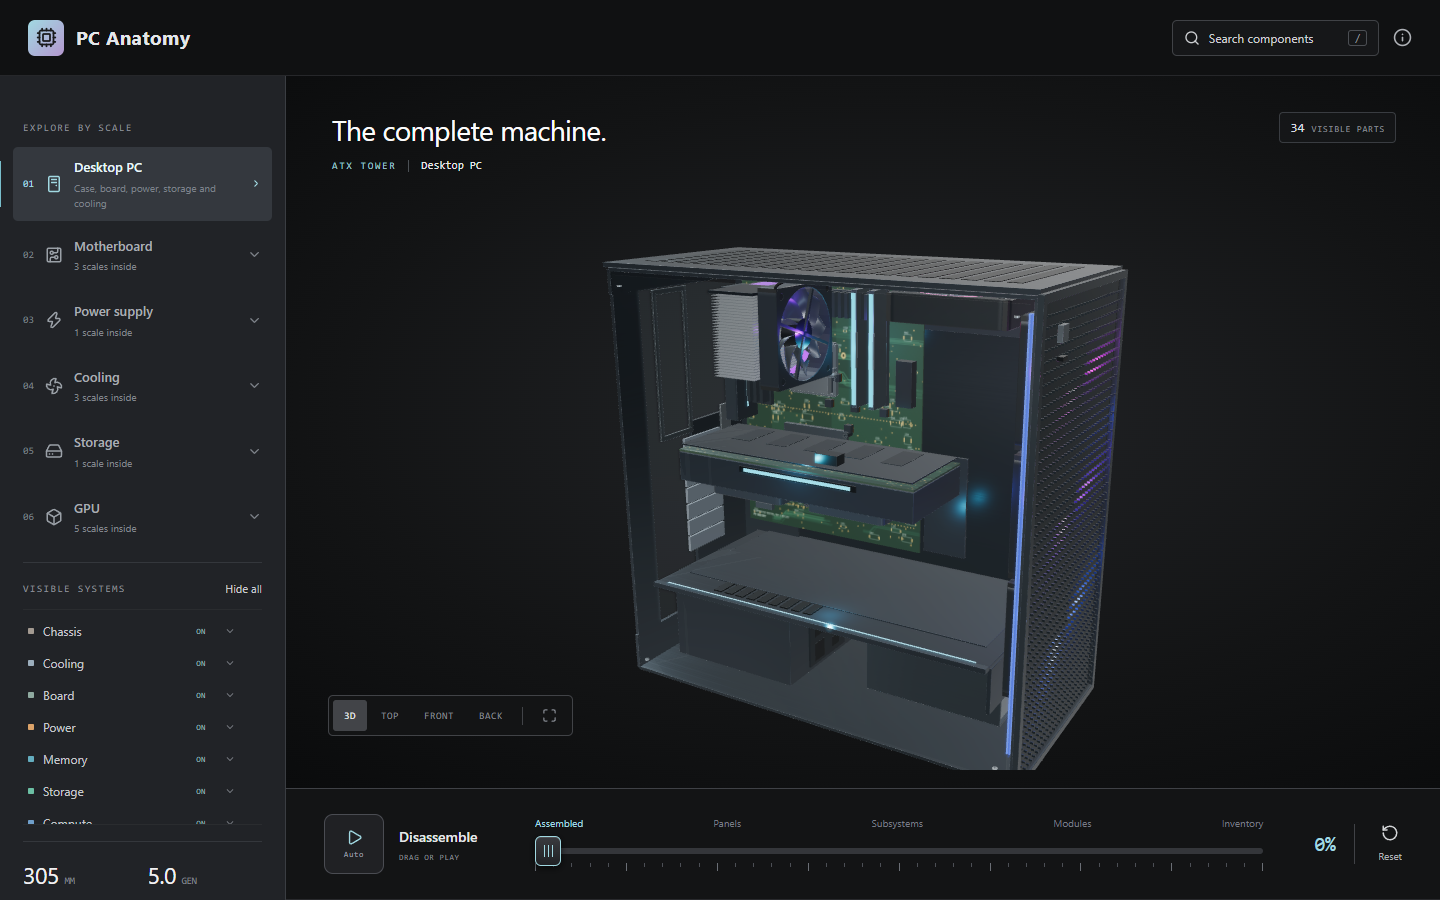
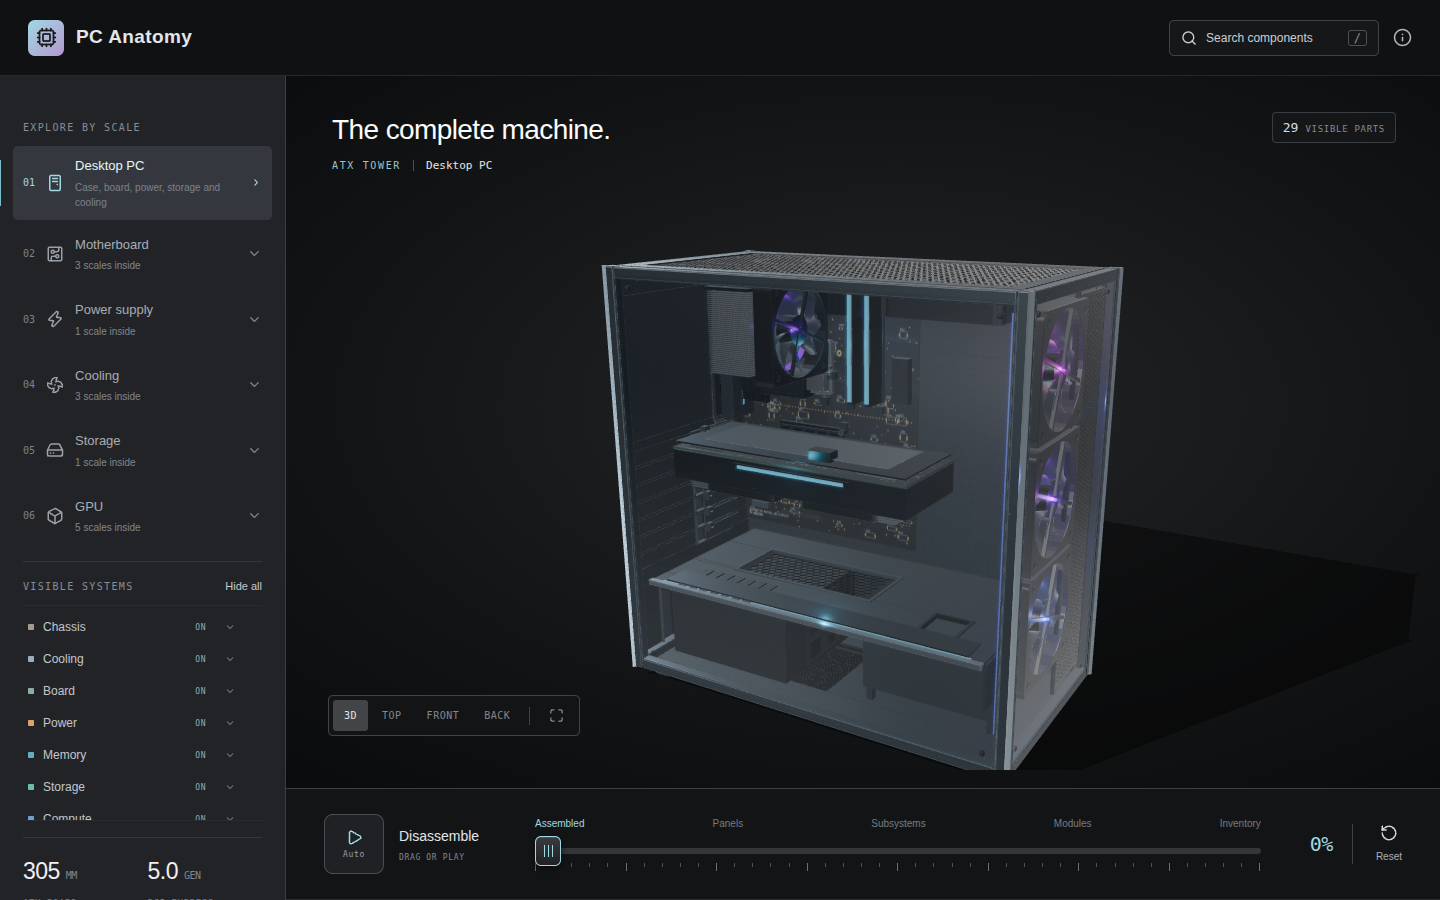
Updated README

diff --git a/lib/scene.ts b/lib/scene.ts
@@ -84,20 +84,22 @@ export function createViewer(
   key.position.set(-5, 7.5, 9);
   key.castShadow = true;
   key.shadow.mapSize.set(shadowSize, shadowSize);
-  // The assembled machine is thirteen units across, so a shadow frustum eight
-  // units wide cut its own shadow off halfway along the case.
+  // The frustum has to hold the machine *and* the shadow it throws, not just
+  // the machine: at thirteen units across and lit from one side, the cast
+  // shadow reaches well past the case, and a frustum sized to the case alone
+  // ends that shadow in a straight line across open floor.
   Object.assign(key.shadow.camera, {
-    left: -12,
-    right: 12,
-    top: 12,
-    bottom: -12,
+    left: -19,
+    right: 19,
+    top: 19,
+    bottom: -19,
     near: 0.1,
-    far: 45,
+    far: 60,
   });
-  key.shadow.bias = -0.00015;
+  key.shadow.bias = -0.0002;
   // Halving the shadow map doubles the world size of a shadow texel, so the
   // offset that keeps a surface from shadowing itself has to grow with it.
-  key.shadow.normalBias = compact ? 0.024 : 0.012;
+  key.shadow.normalBias = compact ? 0.03 : 0.017;
   scene.add(key);
   const rim = new T.DirectionalLight(0xb6d0e0, 1.75);
   rim.position.set(-6, 3.5, -5);

diff --git a/lib/machine.ts b/lib/machine.ts
@@ -311,7 +311,7 @@ export function buildMachine(tools: ModelTools, root: T.Group) {
    */
   const ground = new T.Mesh(
     new T.PlaneGeometry(60, 60),
-    new T.ShadowMaterial({ opacity: 0.46 }),
+    new T.ShadowMaterial({ opacity: 0.42 }),
   );
   ground.rotation.x = -Math.PI / 2;
   ground.position.y = FLOOR - 0.41;

diff --git a/README.md b/README.md
@@ -2,7 +2,7 @@
 
 PC Anatomy is an open-source 3D explorer that takes a desktop computer apart from the assembled ATX tower down to a single GPU streaming multiprocessor.
 
-![PC Anatomy showing an assembled desktop computer on the interactive workbench](docs/screenshots/workbench-assembled.png)
+![An assembled ATX tower in PC Anatomy: a dual-glass aluminium case with the motherboard, graphics card, cooler and power supply visible through the window](docs/screenshots/workbench-assembled.png)
 
 [Explore Live Demo](https://pc-anatomy.com/)
 
@@ -29,6 +29,12 @@ Desktop PC
 ```
 
 The slider moves each scale from its assembled state to a laid-out inventory. Search can jump directly to a component at any depth, while breadcrumbs and the scale navigator move back through the machine.
+
+![The same machine at the far end of the slider, with every part lifted out and laid flat as a component inventory](docs/screenshots/workbench-inventory.png)
+
+The layout is responsive, and the same scales, search and timeline work on a phone.
+
+<img src="docs/screenshots/workbench-mobile.png" alt="PC Anatomy on a phone, showing the assembled tower above the disassembly timeline" width="300">
 
 ## Quick start
 
